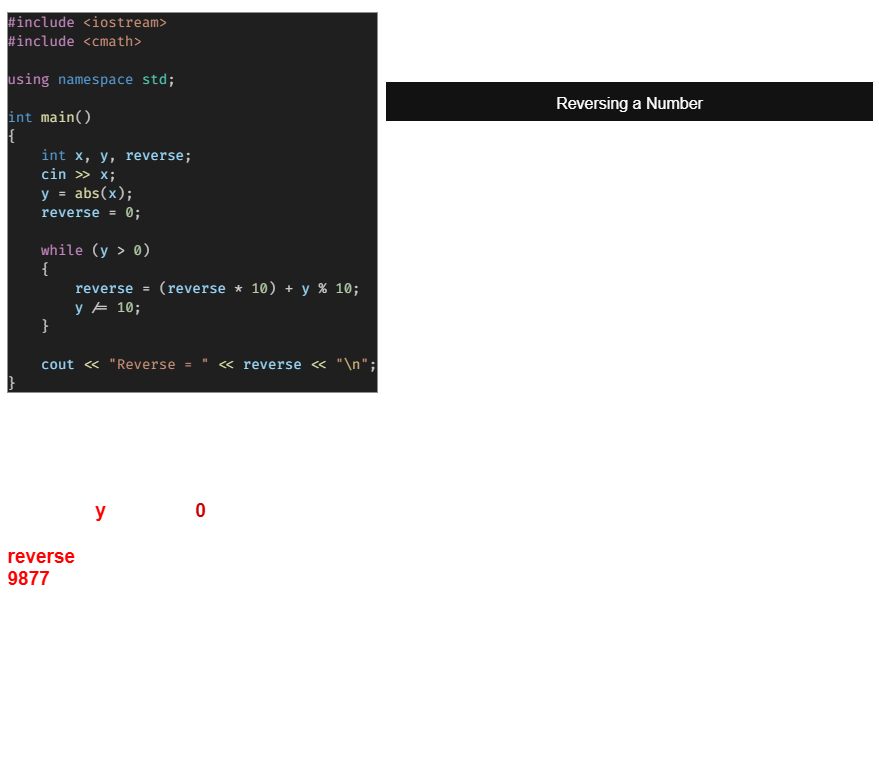
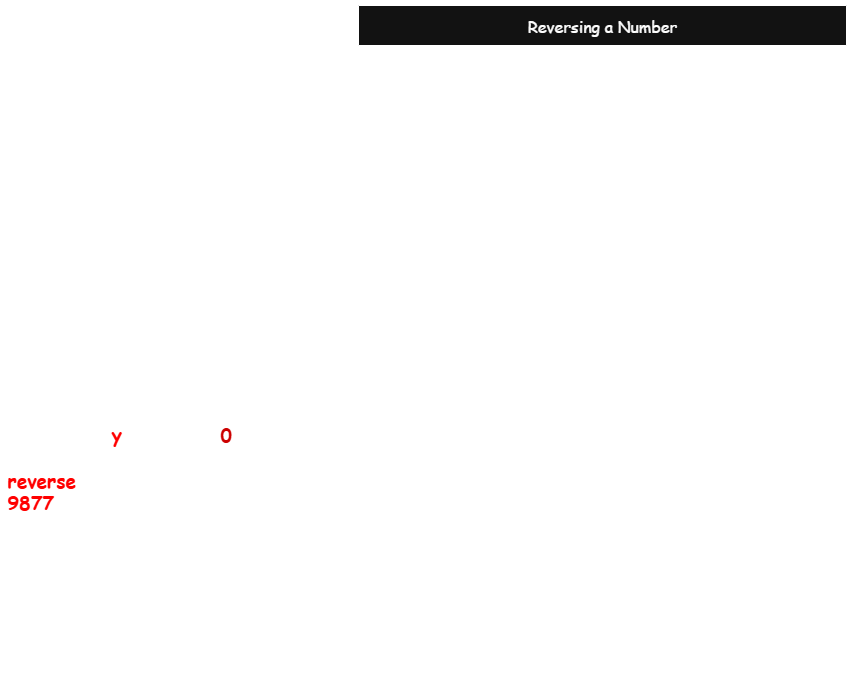
change the image for reversing a number

diff --git a/01. Introduction/04. Math/02. Reverse a Number.md b/01. Introduction/04. Math/02. Reverse a Number.md
@@ -5,7 +5,26 @@ In this we will try to reverse a number.
 `demo.cpp`
 
 ```cpp
+#include <iostream>
+#include <cmath>
 
+using namespace std;
+
+int main()
+{
+    int x, y, reverse;
+    cin >> x;
+    y = abs(x);
+    reverse = 0;
+
+    while (y > 0)
+    {
+        reverse = (reverse * 10) + y % 10;
+        y /= 10;
+    }
+
+    cout << "Reverse = " << reverse << "\n";
+}
 ```
 
 ![image](assets/reverse%20a%20number.png)
